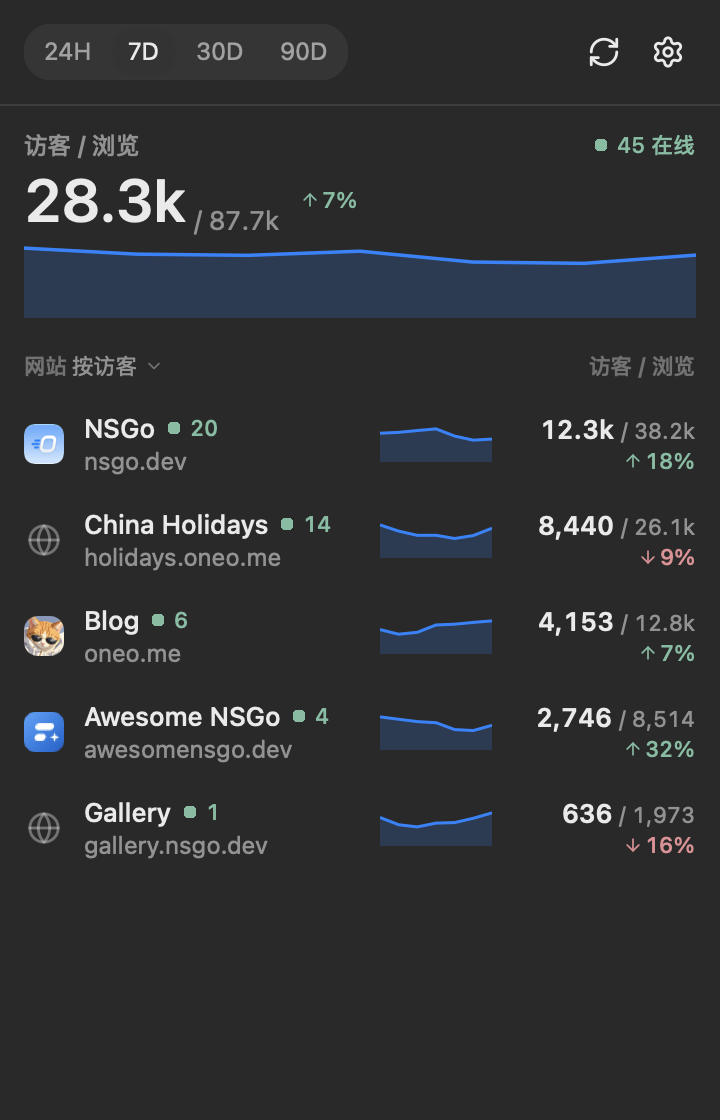
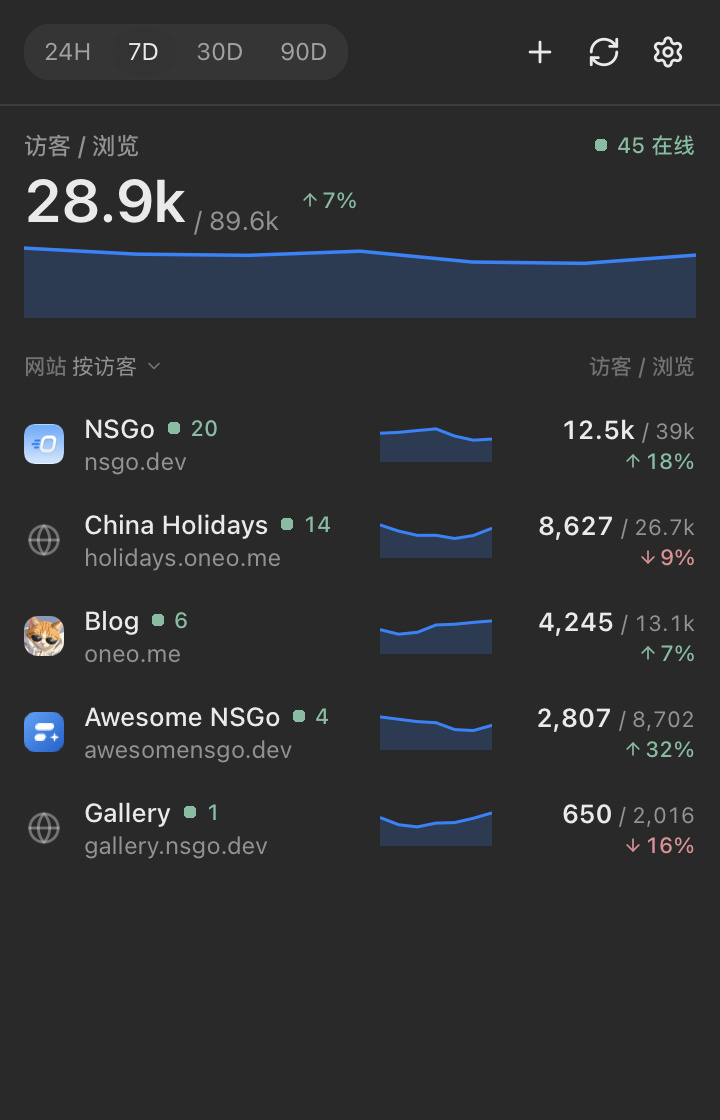
docs: show the window and the server in the READMEs
The READMEs introduce the app as a menu bar app and a window on macOS, and an iPhone app, reading an Umami account or its own server. They open on a screenshot of the window, list counting visitors without Umami among the features, and walk Getting started through opening the window, connecting Umami or the own server, and adding websites. The screenshot tests also take the window on macOS, and the website's script copies those; the macOS panel screenshots are retaken, as the panel's bar gained buttons.

diff --git a/apps/umapp/screenshots_test.go b/apps/umapp/screenshots_test.go
@@ -149,6 +149,37 @@ func TestScreenshotsDark(t *testing.T)   { screenshots(t, "en", core.AppearanceD
 func TestScreenshotsZh(t *testing.T)     { screenshots(t, "zh-Hans", core.AppearanceLight) }
 func TestScreenshotsZhDark(t *testing.T) { screenshots(t, "zh-Hans", core.AppearanceDark) }
 
+// TestScreenshotsWindow and the others save the main window's, on macOS alone, which has it.
+func TestScreenshotsWindow(t *testing.T)       { windowScreenshot(t, "en", core.AppearanceLight) }
+func TestScreenshotsWindowDark(t *testing.T)   { windowScreenshot(t, "en", core.AppearanceDark) }
+func TestScreenshotsWindowZh(t *testing.T)     { windowScreenshot(t, "zh-Hans", core.AppearanceLight) }
+func TestScreenshotsWindowZhDark(t *testing.T) { windowScreenshot(t, "zh-Hans", core.AppearanceDark) }
+
+func windowScreenshot(t *testing.T, locale string, appearance core.Appearance) {
+	if nsgotest.Target() != "macos" {
+		t.Skip("only macOS has the window")
+	}
+	a := newApp(config{Endpoint: cloudEndpoint, Key: "api_demo", Range: 1}, demo{})
+	a.openWindow = func() {}
+	a.refresh()
+	tt := nsgotest.Start(t, func(cx *core.Scope) core.Node {
+		cx.SetLocale(locale)
+		cx.SetAppearance(appearance)
+		a.attach(cx)
+		return a.windowRoot(cx)
+	}, nsgotest.Size(windowWidth, windowHeight))
+	tt.WaitUntil(5*time.Second, func() bool { return a.loading == 0 })
+	tt.Press("window-site-a")
+	tt.WaitUntil(5*time.Second, func() bool { return a.loading == 0 && a.site("a").livePages != nil })
+	// Let the icons and flags load: the sidebar's and the page's, more than the panel shows.
+	time.Sleep(8 * time.Second)
+	suffix := ""
+	if appearance == core.AppearanceDark {
+		suffix = "-dark"
+	}
+	tt.Screenshot(locale + "/window" + suffix)
+}
+
 func screenshots(t *testing.T, locale string, appearance core.Appearance) {
 	a := newApp(config{Endpoint: cloudEndpoint, Key: "api_demo", Range: 1}, demo{})
 	size := nsgotest.Size(panelWidth, panelHeight)

diff --git a/README.zh-CN.md b/README.zh-CN.md
@@ -18,7 +18,11 @@
 </p>
 
 <p align="center">
-  一个原生菜单栏应用和 iPhone 应用，显示 <a href="https://umami.is">Umami</a> 账户下的网站和访客。基于 <a href="https://github.com/nsgo-dev/nsgo">NSGo</a> 构建。
+  一个原生应用，在 macOS 上有菜单栏和窗口两种形态，也能在 iPhone 上运行，显示你的网站和访客：数据来自 <a href="https://umami.is">Umami</a> 账户，或来自 Umapp 自己的服务端，一条命令即可部署到 Cloudflare。基于 <a href="https://github.com/nsgo-dev/nsgo">NSGo</a> 构建。
+</p>
+
+<p align="center">
+  <picture><source media="(prefers-color-scheme: dark)" srcset="screenshots/macos-window-zh-Hans-dark.png"><img src="screenshots/macos-window-zh-Hans.png" alt="Umapp 在 macOS 上的窗口：侧边栏列出网站，旁边是网站页面" width="736"></picture>
 </p>
 
 <p align="center">
@@ -37,7 +41,8 @@
 - 在 macOS 上打开窗口：左侧边栏列出网站，右侧以宽布局显示每个网站的页面。
 - 按 24 小时、7 天、30 天或 90 天显示访客/浏览和趋势，并与上一段对比。
 - 打开单个网站，查看跳出率、访问时长、指针悬停显示数量的图表，以及带图标和国旗的热门页面、来源和国家/地区，可看全部或只看某个标签。
-- 连接 Umami Cloud、自建 Umami，或部署在 Cloudflare Workers 上的 Umapp 自有服务端，并按访客、浏览或名称为网站排序，每个网站都附上图标和域名。
+- 连接 Umami Cloud、自建 Umami，或 Umapp 自有服务端，并按访客、浏览或名称为网站排序，每个网站都附上图标和域名。
+- 不用 Umami 也能统计访客：用 `npm run deploy` 把 Umapp 自有服务端部署到 Cloudflare，同一个 Cloudflare 账号下的网站无需嵌入代码即可统计，并会帮你连接 Mac 上的 Umapp。
 - 在图标旁显示在线访客数，也可以关掉。
 - 在设置或网站页面中管理网站：添加、改名或删除，复制要嵌入的跟踪代码，并检查访问数据是否已经到达。
 - 开机时启动。
@@ -58,10 +63,13 @@ curl -fsSL https://github.com/oneo-me/nsgo-umapp/releases/latest/download/instal
 
 ## 快速开始
 
-1. 启动 Umapp。它会在菜单栏添加一个图标。
-2. 打开面板，设置 API 地址（默认为 Umami Cloud）和在 *设置 → API 密钥* 中创建的密钥。
-3. 浏览网站、切换时间范围，或打开某个网站查看明细。
-4. 右键点击图标可以退出。
+1. 启动 Umapp。它会在菜单栏添加一个图标，点击打开面板。要打开窗口，可以在图标的右键菜单中选择 *打开窗口*，在面板中点 ⤢ 或按 ⌘0，或者再次打开 Umapp；窗口打开时它会显示在程序坞中。
+2. 在设置中连接服务器：
+   - Umami Cloud 或自建 Umami：设置 API 地址（默认为 Umami Cloud）和在 Umami 的 *设置 → API 密钥* 中创建的密钥。
+   - Umapp 自有服务端：按[服务端](#服务端)一节运行 `npm run deploy`。在你的 Mac 上它会打开 Umapp 并填好地址和密钥，确认后点 *连接*。
+3. 用 + 添加网站，把它给出的跟踪代码放到网站的页面上。服务端所在 Cloudflare 账号下的网站无需代码，部署时选中即可。
+4. 浏览网站、切换时间范围，或打开某个网站查看明细。
+5. 右键点击图标可以退出。
 
 在 iPhone 和浏览器中，应用直接打开面板。密钥在 macOS 上保存在登录钥匙串中，在 iPhone 上保存在应用自己的存储中，在浏览器中保存在该站点的本地存储中。
 
@@ -78,7 +86,7 @@ go tool nsgo build
 GOWORK=off go test ./...
 ```
 
-`go tool nsgo test -target macos -run TestScreenshots` 和 `-target ios_simulator` 会用虚构的数据，以浅色和深色两种外观把截图保存到 `.nsgo/test/screenshots/`；在 `apps/website` 中运行 `bun run screenshots` 会同时拍摄两者并复制到 `screenshots/`。
+`go tool nsgo test -target macos -run TestScreenshots` 和 `-target ios_simulator` 会用虚构的数据，以浅色和深色两种外观把面板截图（在 macOS 上还有窗口截图）保存到 `.nsgo/test/screenshots/`；在 `apps/website` 中运行 `bun run screenshots` 会同时拍摄两者并复制到 `screenshots/`。
 
 [官网](https://oneo-me.github.io/nsgo-umapp/zh/)在 `apps/website` 中，用 Astro 和 Bun 构建，不属于 npm workspaces：在该目录先 `bun install`，再用 `bun run dev` 在 <http://localhost:4321/> 预览，用 `bun run build` 检查并构建。推送到 `main` 且改动了官网时，会发布到 GitHub Pages。
 

diff --git a/README.md b/README.md
@@ -18,7 +18,11 @@
 </p>
 
 <p align="center">
-  A native menu bar app, and an iPhone app, that shows the websites of an <a href="https://umami.is">Umami</a> account and their visitors. It is built with <a href="https://github.com/nsgo-dev/nsgo">NSGo</a>.
+  A native app for macOS, in the menu bar and a window, and for iPhone, that shows your websites and their visitors: from an <a href="https://umami.is">Umami</a> account, or from Umapp's own server, which you deploy to Cloudflare with one command. It is built with <a href="https://github.com/nsgo-dev/nsgo">NSGo</a>.
+</p>
+
+<p align="center">
+  <picture><source media="(prefers-color-scheme: dark)" srcset="screenshots/macos-window-en-dark.png"><img src="screenshots/macos-window-en.png" alt="Umapp's window on macOS: the websites in a sidebar beside one's page" width="736"></picture>
 </p>
 
 <p align="center">
@@ -37,7 +41,8 @@
 - Open a window on macOS with the websites in a sidebar beside each one's page, laid out wide.
 - Show visitors / views and a sparkline for 24 hours, 7 days, 30 days or 90 days, compared with the range before.
 - Open one website for bounce rate, duration, a chart with counts under the pointer, and the top pages, referrers and countries with their icons and flags, all of them or of one tag.
-- Connect to Umami Cloud, a self-hosted Umami or Umapp's own server on Cloudflare Workers, and sort the websites, each with its icon and domain, by visitors, views or name.
+- Connect to Umami Cloud, a self-hosted Umami or Umapp's own server, and sort the websites, each with its icon and domain, by visitors, views or name.
+- Count visitors without Umami: deploy Umapp's own server to Cloudflare with `npm run deploy`, which tracks the websites of the same Cloudflare account with nothing to embed and connects Umapp on your Mac.
 - Show the count of visitors online beside the icon, or hide it.
 - Manage the websites from settings or a website's page: add, rename or delete one, copy the tracking code it embeds, and check that its visits arrive.
 - Open at login.
@@ -58,10 +63,13 @@ Or download the disk image from [Releases](https://github.com/oneo-me/nsgo-umapp
 
 ## Getting started
 
-1. Start Umapp. It adds an icon to the menu bar.
-2. Open the panel and set the API endpoint (Umami Cloud by default) and an API key from *Settings → API keys*.
-3. Browse the websites, change the range, or open one for its breakdown.
-4. Right-click the icon to quit.
+1. Start Umapp. It adds an icon to the menu bar, which opens the panel. For the window, choose *Open Window* in the icon's right-click menu, press ⤢ in the panel or ⌘0, or open Umapp again; it shows in the Dock while the window is open.
+2. Connect a server in settings:
+   - Umami Cloud or an Umami of your own: set the API endpoint (Umami Cloud by default) and an API key from Umami's *Settings → API keys*.
+   - Umapp's own server: run `npm run deploy`, as [Server](#server) says. On your Mac it opens Umapp with the endpoint and key filled in; check them and press *Connect*.
+3. Add a website with + and put the tracking code it shows on the website's pages. Websites in the server's own Cloudflare account need no code: choose them when you deploy.
+4. Browse the websites, change the range, or open one for its breakdown.
+5. Right-click the icon to quit.
 
 On iPhone and in a browser, the app opens straight to the panel. The key is kept in the login keychain on macOS, in the app's own storage on iPhone, and in the site's local storage in a browser.
 
@@ -78,7 +86,7 @@ go tool nsgo build
 GOWORK=off go test ./...
 ```
 
-`go tool nsgo test -target macos -run TestScreenshots` and `-target ios_simulator` save the screenshots, with made-up data and in both appearances, under `.nsgo/test/screenshots/`; `bun run screenshots` in `apps/website` takes both and copies them to `screenshots/`.
+`go tool nsgo test -target macos -run TestScreenshots` and `-target ios_simulator` save the screenshots of the panel, and on macOS of the window too, with made-up data and in both appearances, under `.nsgo/test/screenshots/`; `bun run screenshots` in `apps/website` takes both and copies them to `screenshots/`.
 
 The [website](https://oneo-me.github.io/nsgo-umapp/) is in `apps/website`, built with Astro and Bun outside the npm workspaces: from there, `bun install`, then `bun run dev` serves it at <http://localhost:4321/> and `bun run build` checks and builds it. Pushes to `main` that touch it publish it to GitHub Pages.
 
